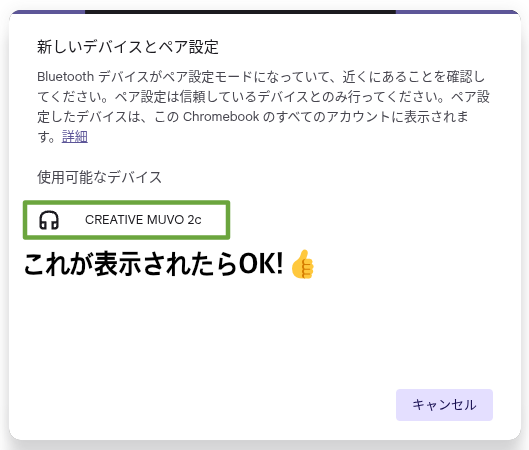
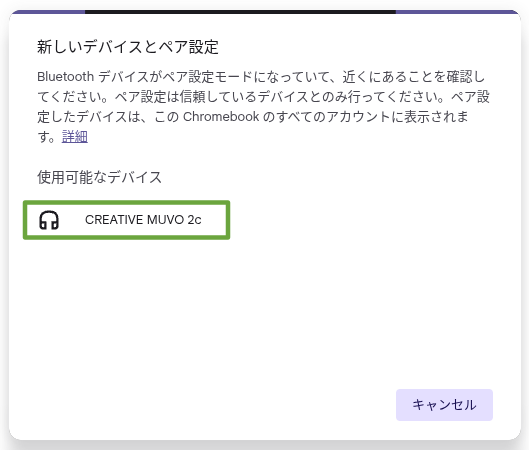
edit image

Changed region(s): [[0.0302, 0.56, 0.6049, 0.6222]]

diff --git a/tests/bluetooth-test.html b/tests/bluetooth-test.html
@@ -34,7 +34,7 @@ display: none;
 <body>
 <h1><a href="../index.html" class="title-link">Bluetoothテスト</a></h1>
 <br>
-<img src="../media/images/bluetooth.png" alt="テストイメージ" class="mac-img">
+<img src="../media/images/bluetooth2.png" alt="テストイメージ" class="mac-img">
 <br>
 <!--<img src="../media/images/bluetooth.gif" alt="テストイメージ" class="warning-img">-->
 
